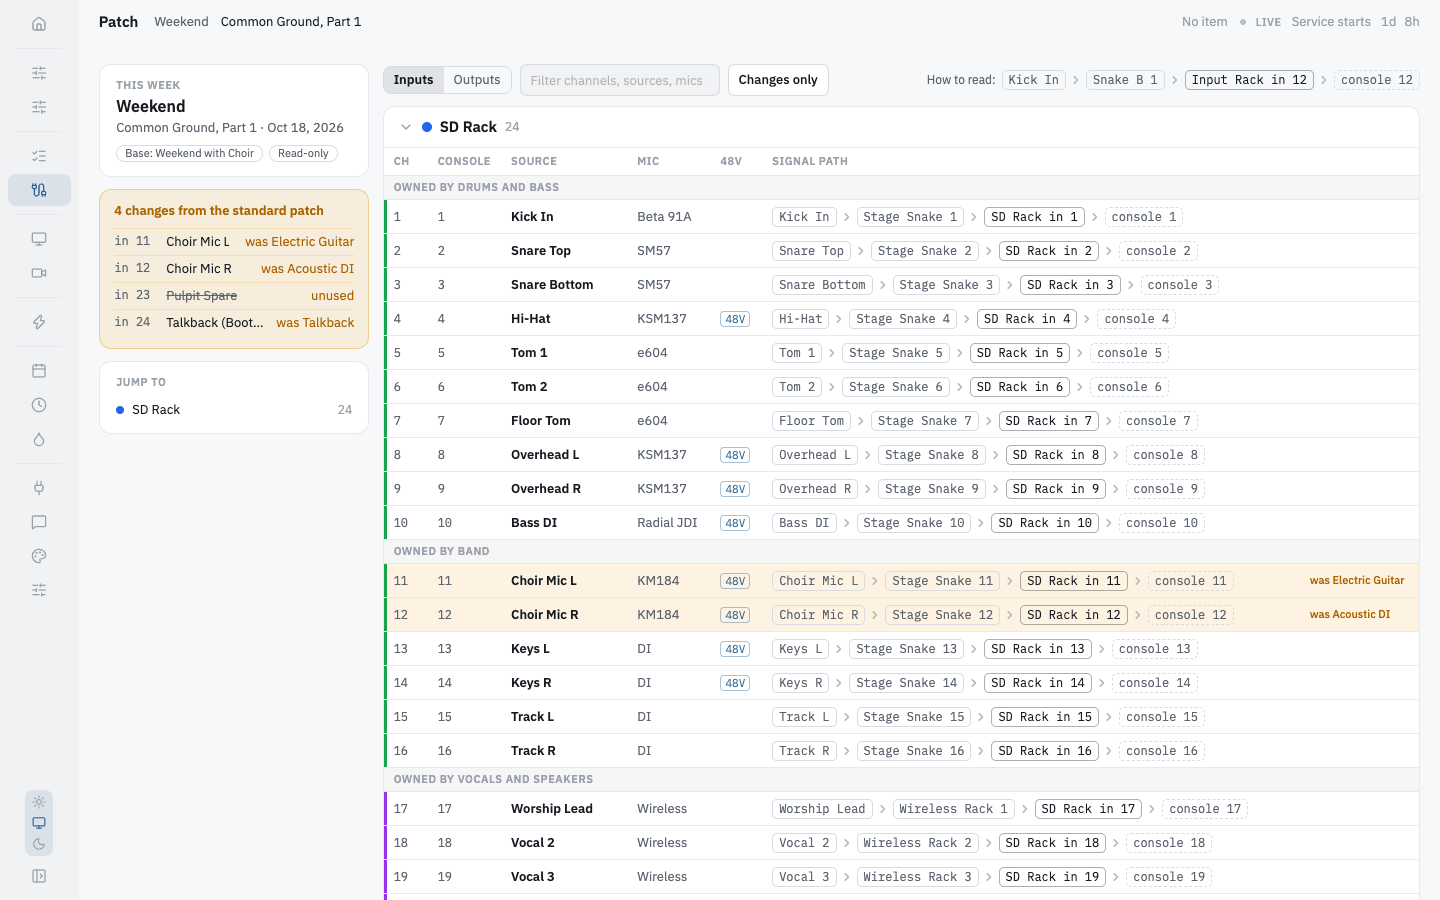
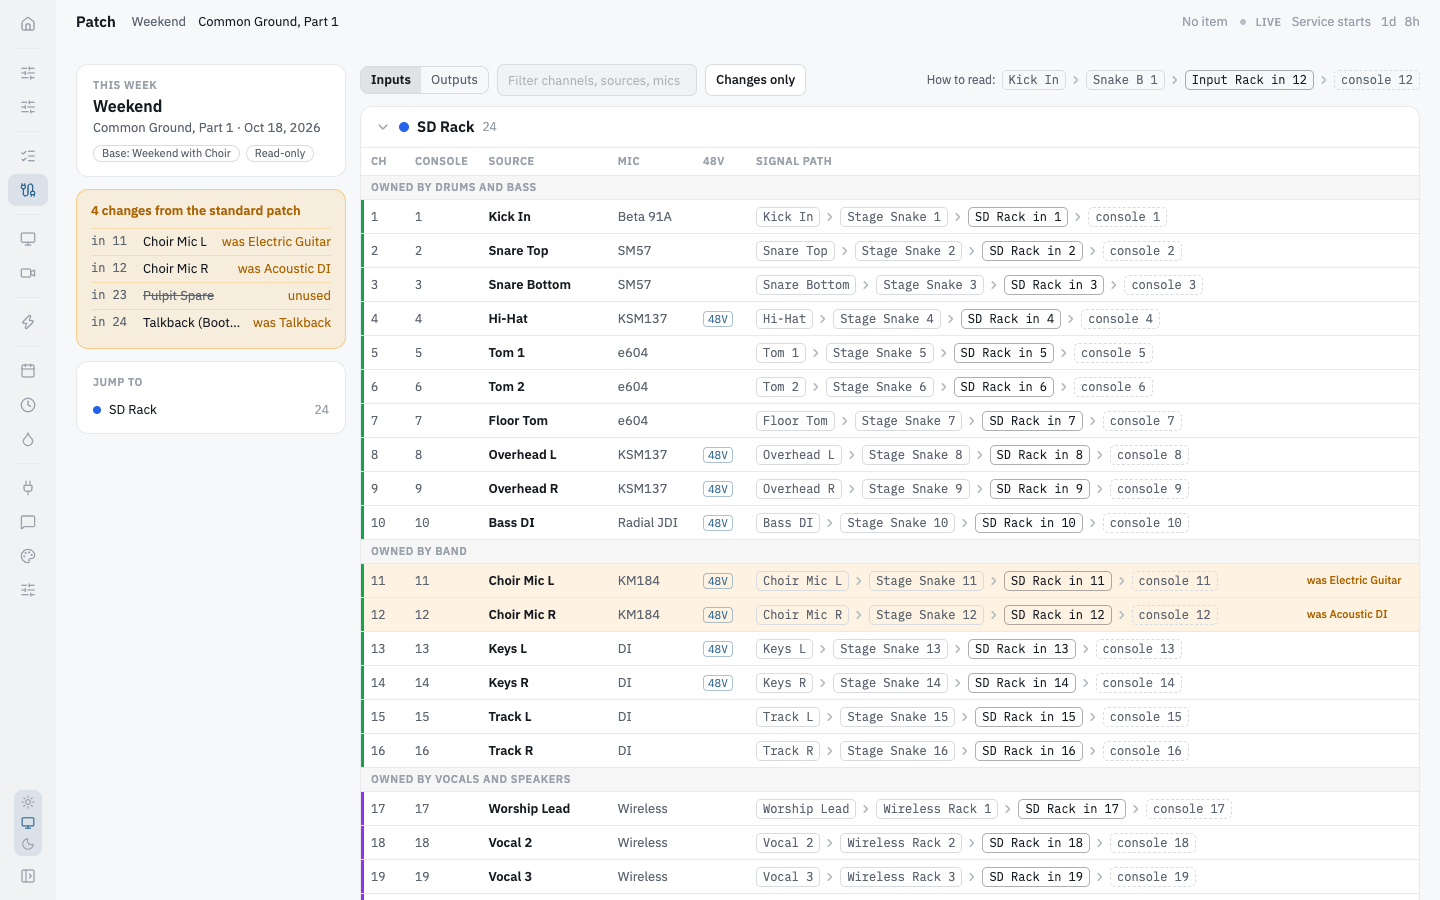
fix: the patch view's pane-width check renders on the answer, not the width
The layout hook held the pane's pixel width, so every frame of a sidebar drag
or the collapse animation re-rendered every rack table; it now holds whether
the pane reaches 74rem and only that change renders. The docs screenshot for
the patch sheet collapsed the sidebar by clicking, which left the stored
preference on for every shot after it and caught the collapse mid-animation;
it now sets the preference before loading and removes it after. Comments and
docs say the sidebar default width and the scrollbar margin, and a test that
a larger root font asks for more pane and that the observer is disconnected on
leaving the page.

Guards proven red: not disconnecting the observer fails the disconnect test; a
literal 16px root fails the root-font test.

Beta-only: true

diff --git a/renderer/lib/use-element-width.ts b/renderer/lib/use-element-width.ts
@@ -1,37 +1,41 @@
 import { useLayoutEffect, useState, type RefObject } from "react";
 
+/** The root font size in px, which is what a `rem` threshold is worth right now. */
+function rootFontPx(): number {
+  if (typeof document === "undefined") return 16;
+  return parseFloat(getComputedStyle(document.documentElement).fontSize) || 16;
+}
+
 /**
- * The width of an element, in px, kept current as it resizes.
+ * Whether an element is at least `minRem` wide, kept current as it resizes.
  *
  * For a decision about how much ROOM a piece of the page has, which the window
  * width cannot answer: the same 1024px window has about 760px of page with the
- * sidebar open and about 950px with it collapsed. A media query cannot ask the
+ * sidebar open and about 930px with it collapsed. A media query cannot ask the
  * pane; `@container` can, but only for styling, and a layout that swaps one
- * component tree for another needs the number in JS.
+ * component tree for another needs the answer in JS.
+ *
+ * Holds the boolean, not the width: a sidebar drag or the collapse animation
+ * resizes the pane every frame, and the answer changes once, so only that one
+ * change renders the page again.
  *
  * Measured before the first paint, so a page that opens wide never flashes the
- * narrow layout. 0 until the element mounts, and in an environment with no
- * ResizeObserver it is measured once. offsetWidth, which includes a classic
- * scrollbar, so the layout a threshold picks cannot change the scrollbar and
- * with it the width it was picked from.
+ * narrow layout. False until the element mounts, and in an environment with no
+ * ResizeObserver it is measured once. Measures offsetWidth, which includes a
+ * classic scrollbar, so the layout the answer picks cannot change the scrollbar
+ * and with it the width the answer was picked from.
  */
-export function useElementWidth(ref: RefObject<HTMLElement | null>): number {
-  const [width, setWidth] = useState(0);
+export function useElementAtLeastRem(ref: RefObject<HTMLElement | null>, minRem: number): boolean {
+  const [atLeast, setAtLeast] = useState(false);
   useLayoutEffect(() => {
     const el = ref.current;
     if (!el) return;
-    const measure = () => setWidth(el.offsetWidth);
+    const measure = () => setAtLeast(el.offsetWidth >= minRem * rootFontPx());
     measure();
     if (typeof ResizeObserver === "undefined") return;
     const ro = new ResizeObserver(measure);
     ro.observe(el);
     return () => ro.disconnect();
-  }, [ref]);
-  return width;
-}
-
-/** The root font size in px, which is what a `rem` threshold is worth right now. */
-export function rootFontPx(): number {
-  if (typeof document === "undefined") return 16;
-  return parseFloat(getComputedStyle(document.documentElement).fontSize) || 16;
+  }, [ref, minRem]);
+  return atLeast;
 }

diff --git a/renderer/main/patch-view.tsx b/renderer/main/patch-view.tsx
@@ -6,7 +6,7 @@ import { invoke } from "../lib/api";
 import { useStageState } from "./use-stage-state";
 import { useStatusChannel } from "./use-status-channel";
 import { resolvePatch, endpointKey } from "../lib/patch-resolve";
-import { rootFontPx, useElementWidth } from "../lib/use-element-width";
+import { useElementAtLeastRem } from "../lib/use-element-width";
 import { chainNodes, collectChanges, noRowsMessage, rackSections, sourceColor, withOwnerHeadings } from "../lib/patch-view-model";
 import { plural } from "@main/services/plural";
 import { LEGEND_NODES, PatchChain } from "./patch-chain";
@@ -21,10 +21,13 @@ import { PatchWide } from "./patch-view-wide";
  * below 62rem, the widest table this app draws (real chain labels such as
  * "1.11 SD Rack in 12", a mic name, the longest note) is 879px. The card is the
  * pane minus the 270px column and its 14px gap, so the pane has to be at least
- * 1163px, and 74rem (1184px) is that rounded up to a whole rem. At that width the
- * note column, which says why a row changed, is never scrolled out of its card. A
- * 1440px window with the sidebar open is a 1176px pane and stacks; a 1280px one
- * with it collapsed is exactly 1184px, and 1440px collapsed is 1344px.
+ * 1163px, and 74rem (1184px at a 16px root) is that rounded up to a whole rem. At
+ * that width the note column, which says why a row changed, stays in its card for
+ * the names measured; a classic 15px scrollbar takes some of the 21px of room, and
+ * a longer name takes the rest. With the sidebar at its default width, a 1440px
+ * window is a 1176px pane and stacks, a 1280px one with the sidebar collapsed is
+ * exactly 1184px, and 1440px collapsed is 1344px. Dragging the sidebar narrower
+ * moves the pane with it.
  */
 export const PATCH_WIDE_MIN_PANE_REM = 74;
 
@@ -102,8 +105,7 @@ export function PatchView() {
   );
 
   const paneRef = useRef<HTMLDivElement>(null);
-  const paneWidth = useElementWidth(paneRef);
-  const wide = paneWidth >= PATCH_WIDE_MIN_PANE_REM * rootFontPx();
+  const wide = useElementAtLeastRem(paneRef, PATCH_WIDE_MIN_PANE_REM);
 
   // Every change, both directions: the desk layout lists them all, the stacked
   // one only the direction on screen.

diff --git a/renderer/main/patch-view.test.tsx b/renderer/main/patch-view.test.tsx
@@ -449,6 +449,29 @@ describe("at desk width", () => {
     assert.equal(screen.queryAllByRole("table").length, 0);
   });
 
+  test("the threshold is 74 rem of the ROOT font, so a larger root asks for more pane", async () => {
+    const g = globalThis as unknown as { getComputedStyle: unknown };
+    const real = g.getComputedStyle;
+    g.getComputedStyle = () => ({ fontSize: "20px" }); // 74rem is now 1480px
+    try {
+      width = 1400;
+      await mount();
+      assert.equal(screen.queryAllByRole("table").length, 0, "1400px is under 74 rem of a 20px root");
+      await resizePane(1480);
+      assert.equal(screen.queryAllByRole("table").length, 2);
+    } finally {
+      g.getComputedStyle = real;
+    }
+  });
+
+  test("leaving the page stops watching its pane", async () => {
+    await mount();
+    assert.ok(observers.size > 0, "nothing was watching the pane to begin with");
+    cleanup();
+    await settle();
+    assert.equal(observers.size, 0, "a ResizeObserver outlived the page");
+  });
+
   test("collapsing the sidebar, which widens the pane, swaps the stacked column for the tables", async () => {
     width = 1176; // a 1440px window with the sidebar open
     await mount();

diff --git a/renderer/main/patch-chain.tsx b/renderer/main/patch-chain.tsx
@@ -45,7 +45,7 @@ export function PatchChain({
   compact?: boolean;
   /** For a chain inside an `@container`: below ~62rem of card width the console
    *  node is not drawn. The table has the console channel in a column of its own,
-   *  and the whole path is about 985px, so on a laptop with the sidebar open the
+   *  and the whole row is about 985px, so on a laptop with the sidebar open the
    *  alternative is the note column scrolled out of sight. */
   dropConsoleInNarrowCard?: boolean;
 }) {

diff --git a/docs/patch-sheet/README.md b/docs/patch-sheet/README.md
@@ -65,7 +65,7 @@ up yet."; the footer links to the editor.
 
 **When the page is 74rem (1184px) wide or more** it uses the whole width in two columns. That
 is the width of the page itself, beside the sidebar, not of the window: a 1440px window
-has room for it with the sidebar collapsed and not with it open.
+has room for it with the sidebar collapsed and, at the sidebar's default width, not with it open.
 
 - **The left column** stays in view while the page scrolls. It holds *This week* (the
   service type, the plan and its date, the base variant and a Read-only tag), the amber
